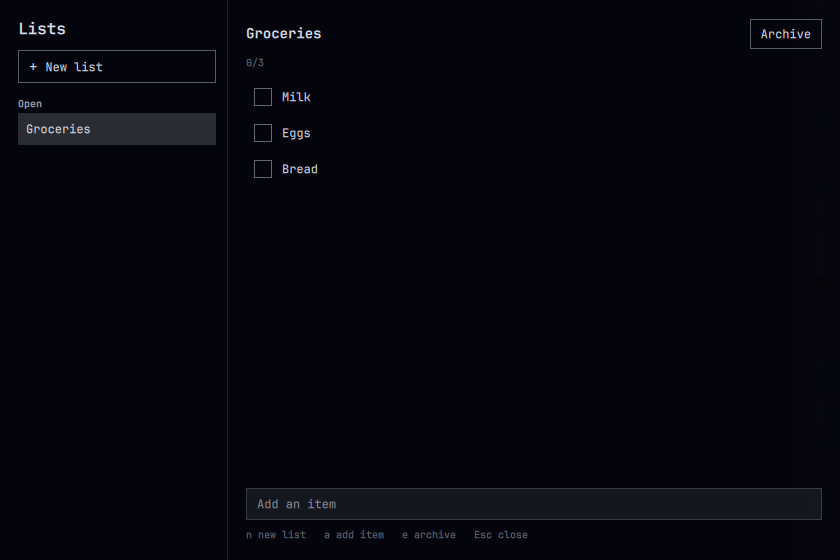
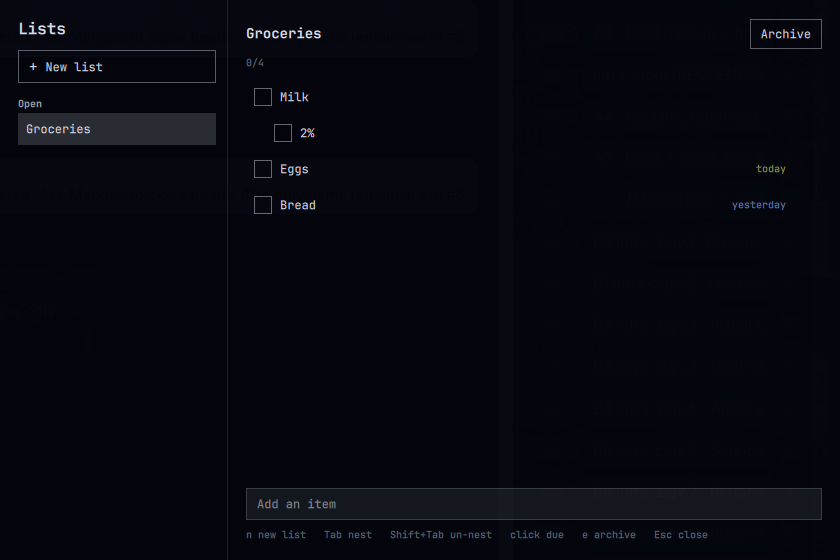
Fix CheckRow signals and show nested items with due dates
Rename dueChanged to dueSubmitted so it does not clash with the
QML property-change signal. Hover uses rowHovered for the same
reason. Refresh the preview to show nesting and due labels.

diff --git a/CheckRow.qml b/CheckRow.qml
@@ -27,9 +27,9 @@ CursorSurface {
   signal indentRequested()
   signal outdentRequested()
   signal dueEditRequested()
-  signal dueChanged(string due)
+  signal dueSubmitted(string due)
   signal dueEditCanceled()
-  signal hovered(bool isHovered)
+  signal rowHovered(bool isHovered)
 
   readonly property color dueColor: {
     if (root.checked || root.dimmed) return Color.muted
@@ -60,7 +60,7 @@ CursorSurface {
     anchors.fill: parent
     hoverEnabled: true
     acceptedButtons: Qt.NoButton
-    onContainsMouseChanged: root.hovered(containsMouse)
+    onContainsMouseChanged: root.rowHovered(containsMouse)
   }
 
   Row {
@@ -203,13 +203,13 @@ CursorSurface {
         verticalPadding: Style.space(2)
         horizontalPadding: Style.space(6)
         onVisibleChanged: if (visible) root.beginDueEdit()
-        onAccepted: root.dueChanged(text)
+        onAccepted: root.dueSubmitted(text)
         Keys.onEscapePressed: function(event) {
           event.accepted = true
           root.dueEditCanceled()
         }
         onActiveFocusChanged: {
-          if (root.editingDue && !activeFocus) root.dueChanged(text)
+          if (root.editingDue && !activeFocus) root.dueSubmitted(text)
         }
       }
     }

diff --git a/App.qml b/App.qml
@@ -498,12 +498,12 @@ Item {
                         root.editingItemId = ""
                         root.editingDueId = itemId
                       }
-                      onDueChanged: function(due) {
+                      onDueSubmitted: function(due) {
                         if (lists) lists.setDue(itemId, due)
                         root.editingDueId = ""
                       }
                       onDueEditCanceled: root.editingDueId = ""
-                      onHovered: function(isHovered) {
+                      onRowHovered: function(isHovered) {
                         if (isHovered) root.focusedItemId = itemId
                       }
                     }
